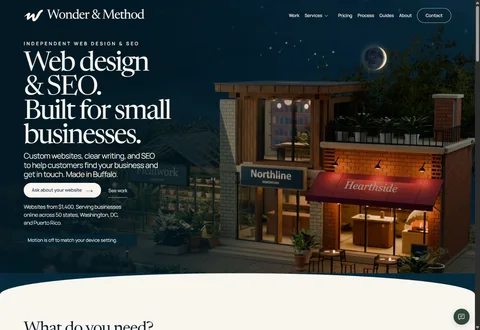
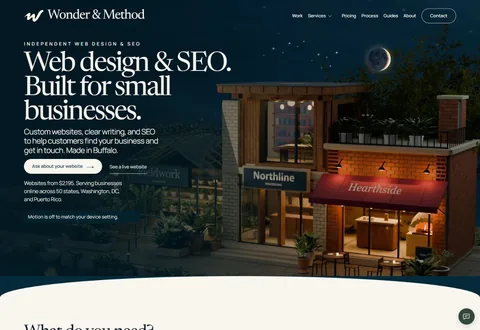
Refresh portfolio homepage capture to show current V4 pricing

diff --git a/operations/v4-offers-20261029/review/homepage-capture-review.md b/operations/v4-offers-20261029/review/homepage-capture-review.md
@@ -1,0 +1,9 @@
+# Independent homepage capture review
+
+PASS. No new findings.
+
+The prior tracked image visibly contains $1,400; the raw browser capture and refreshed WebP show $2,195 and the current See a live website CTA. All five encodings exactly match independent in-memory Sharp transcodes/resizes of the raw capture. Dimensions, bytes and hashes match metadata. All 14 homepage source hashes, captured HTML and loaded site-home.css hashes match.
+
+All five tracker assets and trackerCapture metadata exactly match HEAD. All three retained historical tracker source hashes (lead-workbench.mjs, lead-workbench.js and lead-workbench.css) differ from current source; metadata and all three source files are unchanged from HEAD. This is inherited provenance, not newly certified current tracker source pins.
+
+Exact hashes and acquisition limits are recorded in homepage-capture-review.json. Linux visual baseline review remains separate.
